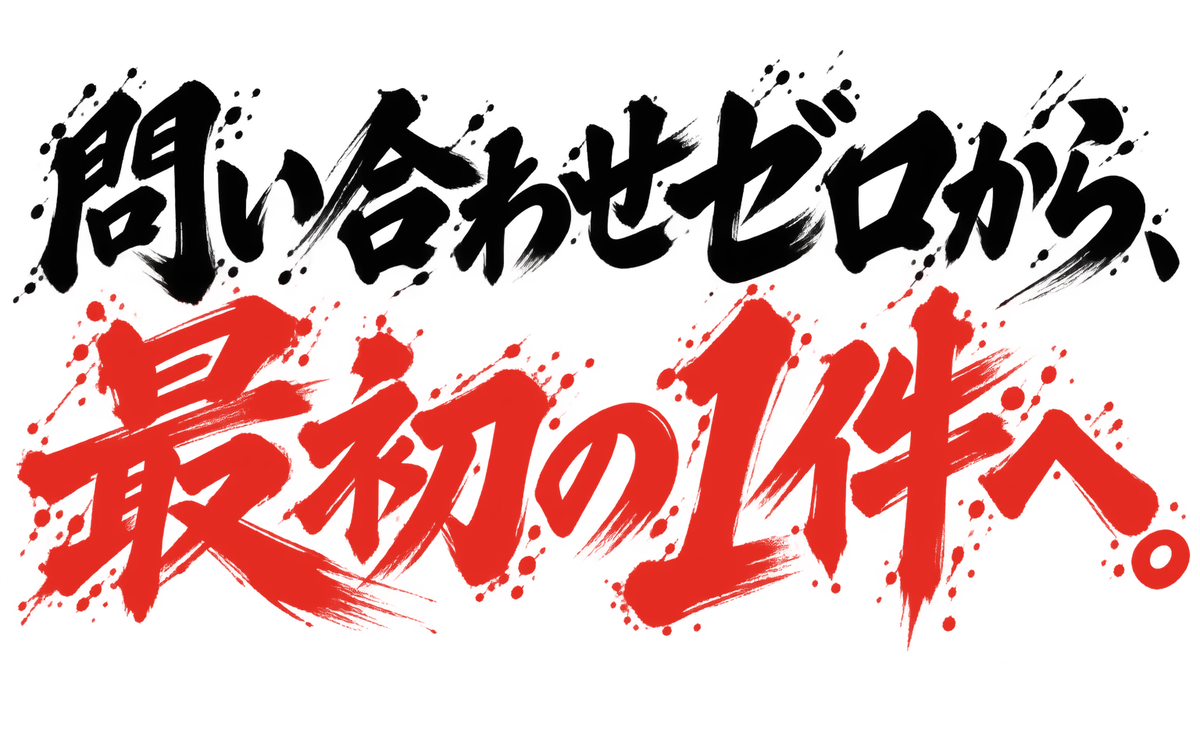
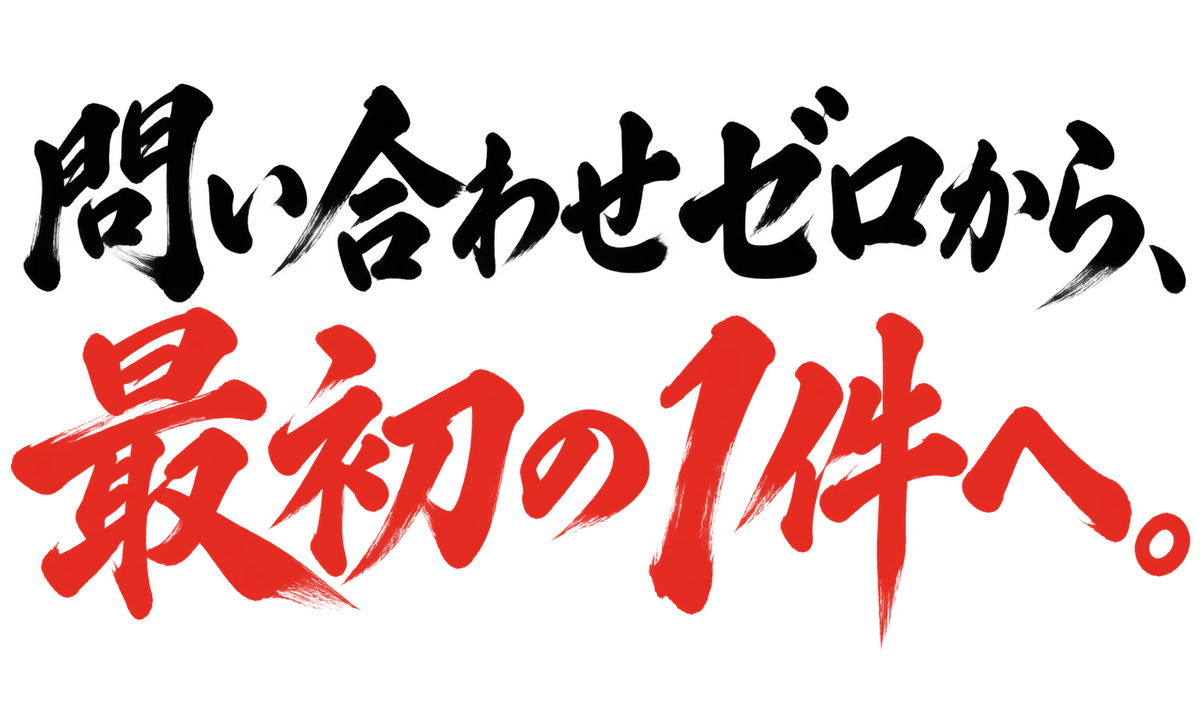
看板版のキャッチを習字らしい筆文字に差し替え

Changed region(s): [[0.0, 0.0921, 0.9867, 0.8898]]

diff --git a/kanban/index.html b/kanban/index.html
@@ -430,7 +430,7 @@ footer .inner{display:grid;gap:6px;text-align:center}
     <div class="inner hero-grid">
       <div>
         <p class="eyebrow"><span>START</span><span class="nw">はじめてのWEB集客を、</span><span class="nw">まるごとサポート。</span></p>
-        <h1 class="brush"><span class="sr-only">問い合わせゼロから、最初の1件へ。</span><img src="assets/brush-catch.webp" alt="" width="1200" height="734" fetchpriority="high"></h1>
+        <h1 class="brush"><span class="sr-only">問い合わせゼロから、最初の1件へ。</span><img src="assets/brush-catch.webp" alt="" width="1200" height="717" fetchpriority="high"></h1>
         <p class="hero-sub"><span class="nw">WEB集客をはじめて行う</span><span class="nw">会社のための、</span><span class="nw">集客用ホームページ（LP）</span><span class="nw">＋WEB広告。</span></p>
         <p class="hero-lead">ホームページ用語がわからなくても大丈夫。伝え方を整え、広告で届け、初めてのWEB問い合わせを目指します。</p>
         <p class="ai-badge"><b>AI活用で、業界最安値級<sup>※1</sup></b>制作・広告運用・広告費まで込み</p>
